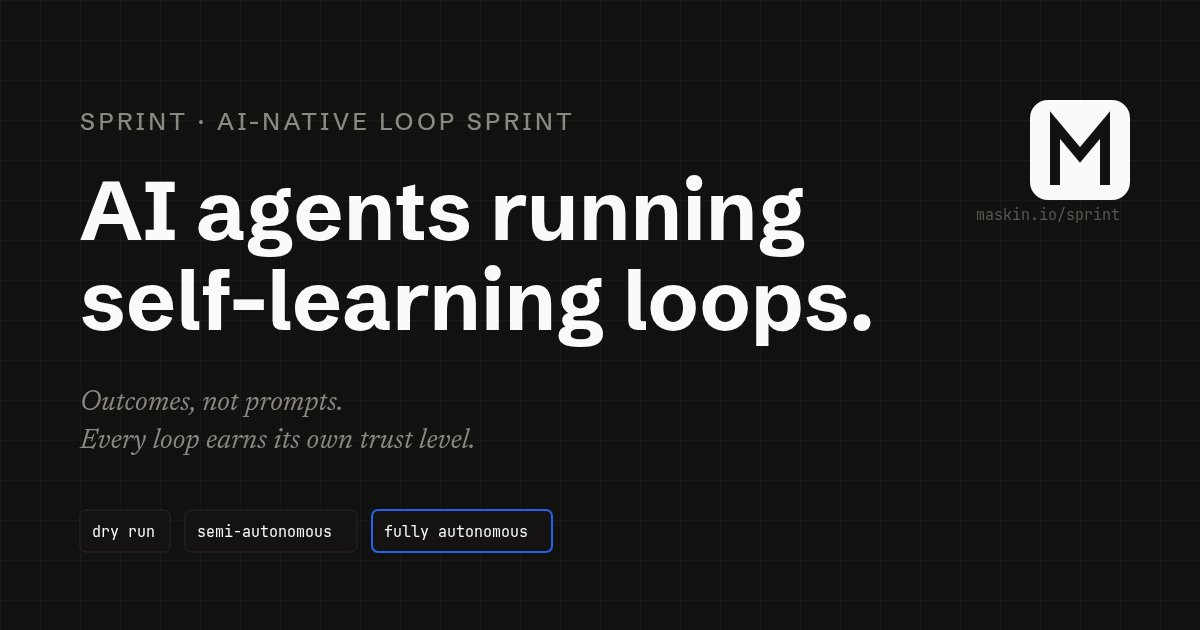
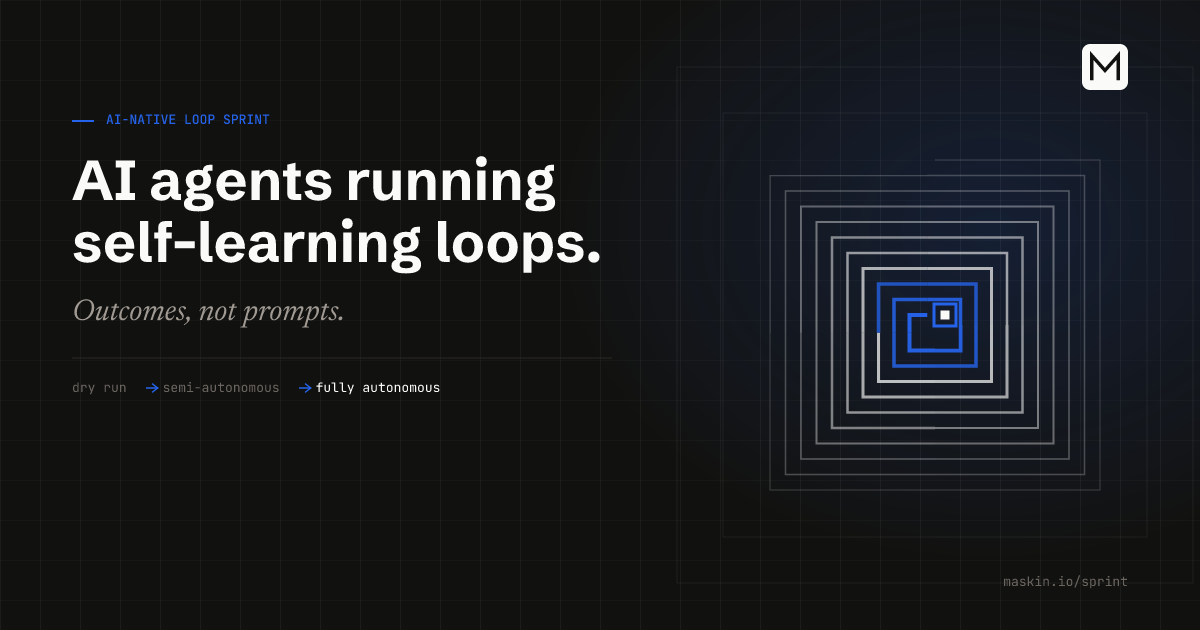
fix(sprint): swap og:image bytes to the designed hero + add ?v=2
The og:image markup shipped in #30, but og-image-sprint.png at that path was
still the 54,999 B placeholder raster, not the designed hero Visual Designer
attached to the /sprint/ content object. Overwrite the bytes with
hero-sprint-1200x630.png (122,473 B, 1200x630) and add ?v=2 to og:image and
twitter:image so unfurlers refetch instead of serving the cached placeholder.

No markup/path change: both tags already pointed at this exact path.

diff --git a/sprint/index.html b/sprint/index.html
@@ -20,7 +20,7 @@
 <meta property="og:url" content="https://maskin.io/sprint/">
 <meta property="og:title" content="AI-Native Loop Sprint — built with you">
 <meta property="og:description" content="Your team stops prompting one message at a time. You build loops where agents run, learn, and deliver outcomes — in the same workspace as the humans who guide them.">
-<meta property="og:image" content="https://maskin.io/og-image-sprint.png">
+<meta property="og:image" content="https://maskin.io/og-image-sprint.png?v=2">
 <meta property="og:image:width" content="1200">
 <meta property="og:image:height" content="630">
 <meta property="og:site_name" content="Maskin">
@@ -30,7 +30,7 @@
 <meta name="twitter:site" content="@maskin_io">
 <meta name="twitter:title" content="AI-Native Loop Sprint — built with you">
 <meta name="twitter:description" content="Set up AI agents in self-learning loops in a day. Loops graduate to semi- or fully autonomous.">
-<meta name="twitter:image" content="https://maskin.io/og-image-sprint.png">
+<meta name="twitter:image" content="https://maskin.io/og-image-sprint.png?v=2">
 
 <!-- PostHog analytics. Autocapture (CTA clicks), pageviews, and scroll depth are on by default.
      The key below is replaced at build time by the POSTHOG_PROJECT_KEY environment variable. -->
